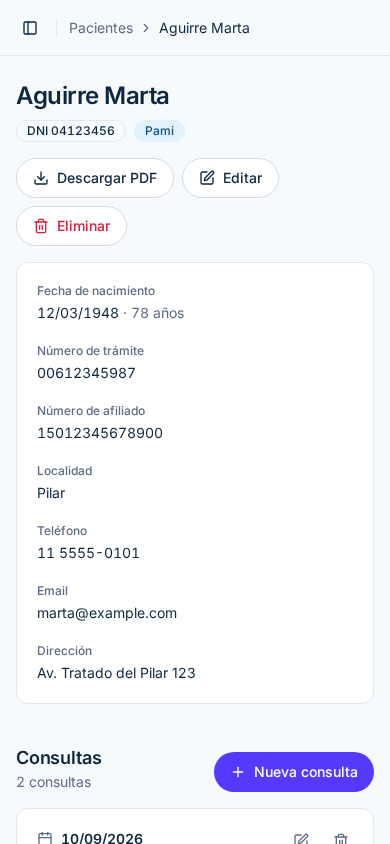
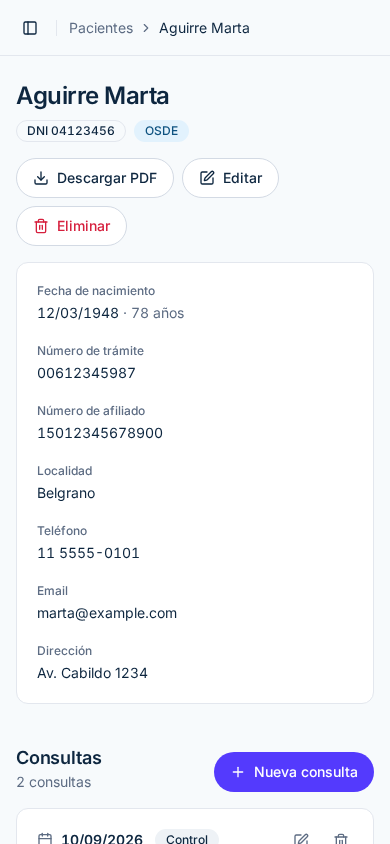
docs: listas configurables en el README y capturas con valores genéricos
La sección Personalización explica la pantalla Listas y cómo se validan los
valores en la base. La instalación avisa que un usuario nuevo arranca con las
listas vacías. Se suma la captura de la pantalla Listas.

diff --git a/e2e/screenshots.spec.ts b/e2e/screenshots.spec.ts
@@ -77,6 +77,10 @@ test('escritorio', async ({ app }, testInfo) => {
   await app.getByRole('button', { name: 'Agregar paciente' }).click();
   await expect(app.getByRole('dialog', { name: 'Agregar nuevo paciente' })).toBeVisible();
   await app.screenshot({ path: `${DIR}/alta.png`, animations: 'disabled' });
+
+  await app.goto('/listas');
+  await expect(app.getByRole('list', { name: 'Obras sociales activas' })).toBeVisible();
+  await app.screenshot({ path: `${DIR}/listas.png`, animations: 'disabled' });
 });
 
 test('og:image', async ({ app }, testInfo) => {

diff --git a/README.md b/README.md
@@ -34,8 +34,12 @@ Aplicación web para que un profesional de la salud lleve el **registro de sus p
 - Los filtros, el orden y la página quedan en la URL: podés recargar o compartir el link y ves lo mismo.
 
 **Consultas**
-- Registro de consultas por paciente con fecha, tipo (primera, segunda, domicilio, espontánea) y notas libres.
+- Registro de consultas por paciente con fecha, tipo y notas libres.
 - Edición y borrado de consultas.
+
+**Listas configurables**
+- Cada profesional arma sus propias listas de **obras sociales**, **localidades** y **tipos de consulta** desde la pantalla *Listas*: agregar, renombrar, reordenar, elegir el color del badge de cada obra social y archivar las que ya no usa.
+- Renombrar una opción la actualiza en todos los pacientes y consultas que la usan. Una opción en uso no se puede borrar: se archiva, deja de ofrecerse en los formularios y los registros la conservan.
 
 **Historia clínica en PDF**
 - Desde el detalle del paciente se descarga un PDF (A4) con sus datos y todas sus consultas. Se genera en el navegador; no se envía a ningún servidor.
@@ -60,6 +64,10 @@ Todas con datos ficticios.
 | Alta de paciente | Celular |
 | --- | --- |
 | ![Formulario de alta de paciente](docs/screenshots/alta.png) | <img src="docs/screenshots/listado-mobile.png" alt="Listado de pacientes en el celular" width="260"> <img src="docs/screenshots/detalle-mobile.png" alt="Detalle del paciente en el celular" width="260"> |
+
+| Listas configurables |
+| --- |
+| ![Pantalla de listas: obras sociales, localidades y tipos de consulta](docs/screenshots/listas.png) |
 
 Se regeneran con `npm run screenshots`, que usa el mismo Supabase simulado que los tests e2e.
 
@@ -86,11 +94,12 @@ Es una SPA estática: no hay un backend propio. El navegador habla directamente 
 │  Navegador (SPA React)   │ ───────────────────▶ │  Supabase                    │
 │  - React Query           │   clave publishable  │  - Auth (Google OAuth)       │
 │  - PDF generado acá      │ ◀─────────────────── │  - PostgreSQL + RLS          │
-└──────────────────────────┘                      │    patients / consultas      │
+└──────────────────────────┘                      │    patients / consultas /    │
+                                                  │    listas configurables      │
                                                   └──────────────────────────────┘
 ```
 
-- Cada fila de `patients` y `consultas` tiene un `user_id`, y cada usuario tiene su perfil en `users` (lo crea un trigger al registrarse). Las políticas RLS permiten leer y escribir solo las filas donde `auth.uid() = user_id`, y una consulta solo puede asociarse a un paciente propio. Aunque dos profesionales usen la misma instancia, ninguno ve los datos del otro.
+- Cada fila de `patients`, `consultas` y de las listas configurables (`obras_sociales`, `localidades`, `tipos_consulta`) tiene un `user_id`, y cada usuario tiene su perfil en `users` (lo crea un trigger al registrarse). Las políticas RLS permiten leer y escribir solo las filas donde `auth.uid() = user_id`, y una consulta solo puede asociarse a un paciente propio. Aunque dos profesionales usen la misma instancia, ninguno ve los datos del otro.
 - La clave publishable (anon) está pensada para ir en el frontend: por sí sola no da acceso a nada que RLS no permita.
 - **Nunca pongas la clave `service_role` (o una secret key) en el frontend ni en variables `VITE_*`**: esa clave saltea RLS y daría acceso a todos los datos.
 
@@ -139,7 +148,7 @@ npx supabase db push
 
 **Opción B — SQL Editor**
 
-En el dashboard de Supabase, abrí **SQL Editor** y ejecutá el contenido de cada archivo de `supabase/migrations/`, uno por uno, **en orden por nombre** (el nombre empieza con la fecha). Hoy es un solo archivo con el schema completo. La carpeta `supabase/migrations_legacy/` es solo historial: no la ejecutes.
+En el dashboard de Supabase, abrí **SQL Editor** y ejecutá el contenido de cada archivo de `supabase/migrations/`, uno por uno, **en orden por nombre** (el nombre empieza con la fecha). El primero tiene el schema completo y los siguientes son los cambios posteriores. La carpeta `supabase/migrations_legacy/` es solo historial: no la ejecutes.
 
 ### 4. Configurar el login con Google
 
@@ -162,6 +171,8 @@ npm run dev
 ```
 
 Abrí <http://localhost:8080> e ingresá con Google.
+
+Un usuario nuevo arranca con las listas de obras sociales, localidades y tipos de consulta **vacías**: cargalas desde **Listas** en el menú lateral antes de dar de alta pacientes.
 
 ### 6. Cerrar el registro
 
@@ -229,36 +240,27 @@ En ambos casos:
 │   ├── hooks/                Auth, datos de pacientes (React Query), formularios
 │   ├── integrations/supabase/ Cliente de Supabase y tipos de la base
 │   ├── lib/
-│   │   ├── patient.ts        Tipos, listas de valores, edad y orden del listado
+│   │   ├── patient.ts        Tipos, límites de texto, edad y orden del listado
+│   │   ├── catalogos.ts      Listas configurables: nombres, colores de badge y opciones de los selects
 │   │   └── historia-clinica-pdf.tsx  Generación del PDF
-│   ├── pages/                Auth, Dashboard, PatientDetail, NotFound
+│   ├── pages/                Auth, Dashboard, PatientDetail, Listas, NotFound
 │   └── App.tsx               Rutas y providers
 ├── supabase/
-│   └── migrations/           Esquema de la base, políticas RLS y límites de tamaño
+│   └── migrations/           Esquema de la base, políticas RLS, límites de tamaño y listas configurables
 ├── vercel.json, netlify.toml Deploy: rewrite de SPA y headers de seguridad (CSP)
 └── .env.example              Variables de entorno necesarias
 ```
 
 ## Personalización
 
-Las listas de **obras sociales**, **localidades** y **tipos de consulta** vienen pensadas para un consultorio puntual (zona norte del conurbano bonaerense). Para adaptarlas a tu caso tenés que cambiarlas **en dos lugares**, porque la base también las valida:
+Las listas de **obras sociales**, **localidades** y **tipos de consulta** se editan desde la app, en **Listas**: no hace falta tocar código ni la base. Cada profesional tiene las suyas.
 
-1. **En el código** — `src/lib/patient.ts`:
-   - `OBRAS_SOCIALES` y `LOCALIDADES` (y los tipos `obra_social` / `localidad` de la interfaz `Patient`).
-   - Los tipos de consulta: el tipo `tipo` de `Consultation`.
-   - En `src/components/ConsultationForm.tsx`: la lista `TIPOS_CONSULTA` y el `z.enum` del esquema de validación.
-   - `obraSocialTint`: el color del badge de cada obra social.
-2. **En la base** — las columnas `obra_social` y `localidad` de `patients` y `tipo` de `consultas` tienen restricciones `CHECK` con los valores permitidos. Creá una migración nueva que las reemplace, por ejemplo:
+Por dentro, cada lista es una tabla (`obras_sociales`, `localidades`, `tipos_consulta`) con RLS por usuario. `patients.obra_social`, `patients.localidad` y `consultas.tipo` guardan el nombre de la opción y tienen una FK compuesta `(user_id, nombre)` hacia su lista, con `ON UPDATE CASCADE`: la base rechaza valores que no estén en la lista del profesional y propaga los renombres. Ver `supabase/migrations/20261021000000_listas_configurables.sql`.
 
-   ```sql
-   -- Buscá el nombre real de la restricción en Table Editor o con \d patients
-   ALTER TABLE public.patients DROP CONSTRAINT patients_obra_social_check;
-   ALTER TABLE public.patients
-     ADD CONSTRAINT patients_obra_social_check
-     CHECK (obra_social IN ('OSDE', 'Swiss Medical', 'Particular') OR obra_social IS NULL);
-   ```
+Lo que sí es fijo en el código:
 
-   Si la base ya tiene datos, asegurate de que los valores existentes entren en la nueva lista antes de aplicar el cambio.
+- **Tipos de documento** (DNI, LE, LC): un `enum` de la base (`tipo_documento`) y `TIPOS_DOCUMENTO` en `src/lib/patient.ts`.
+- **Colores de los badges**: la paleta `TINTS` de `src/lib/catalogos.ts`, los tokens `--tint-*` de `src/index.css` y el `CHECK` de `obras_sociales.color`. Para sumar un color hay que cambiar los tres.
 
 Si cambiás el esquema, regenerá los tipos de `src/integrations/supabase/types.ts` con `npx supabase gen types typescript --linked`.
 
